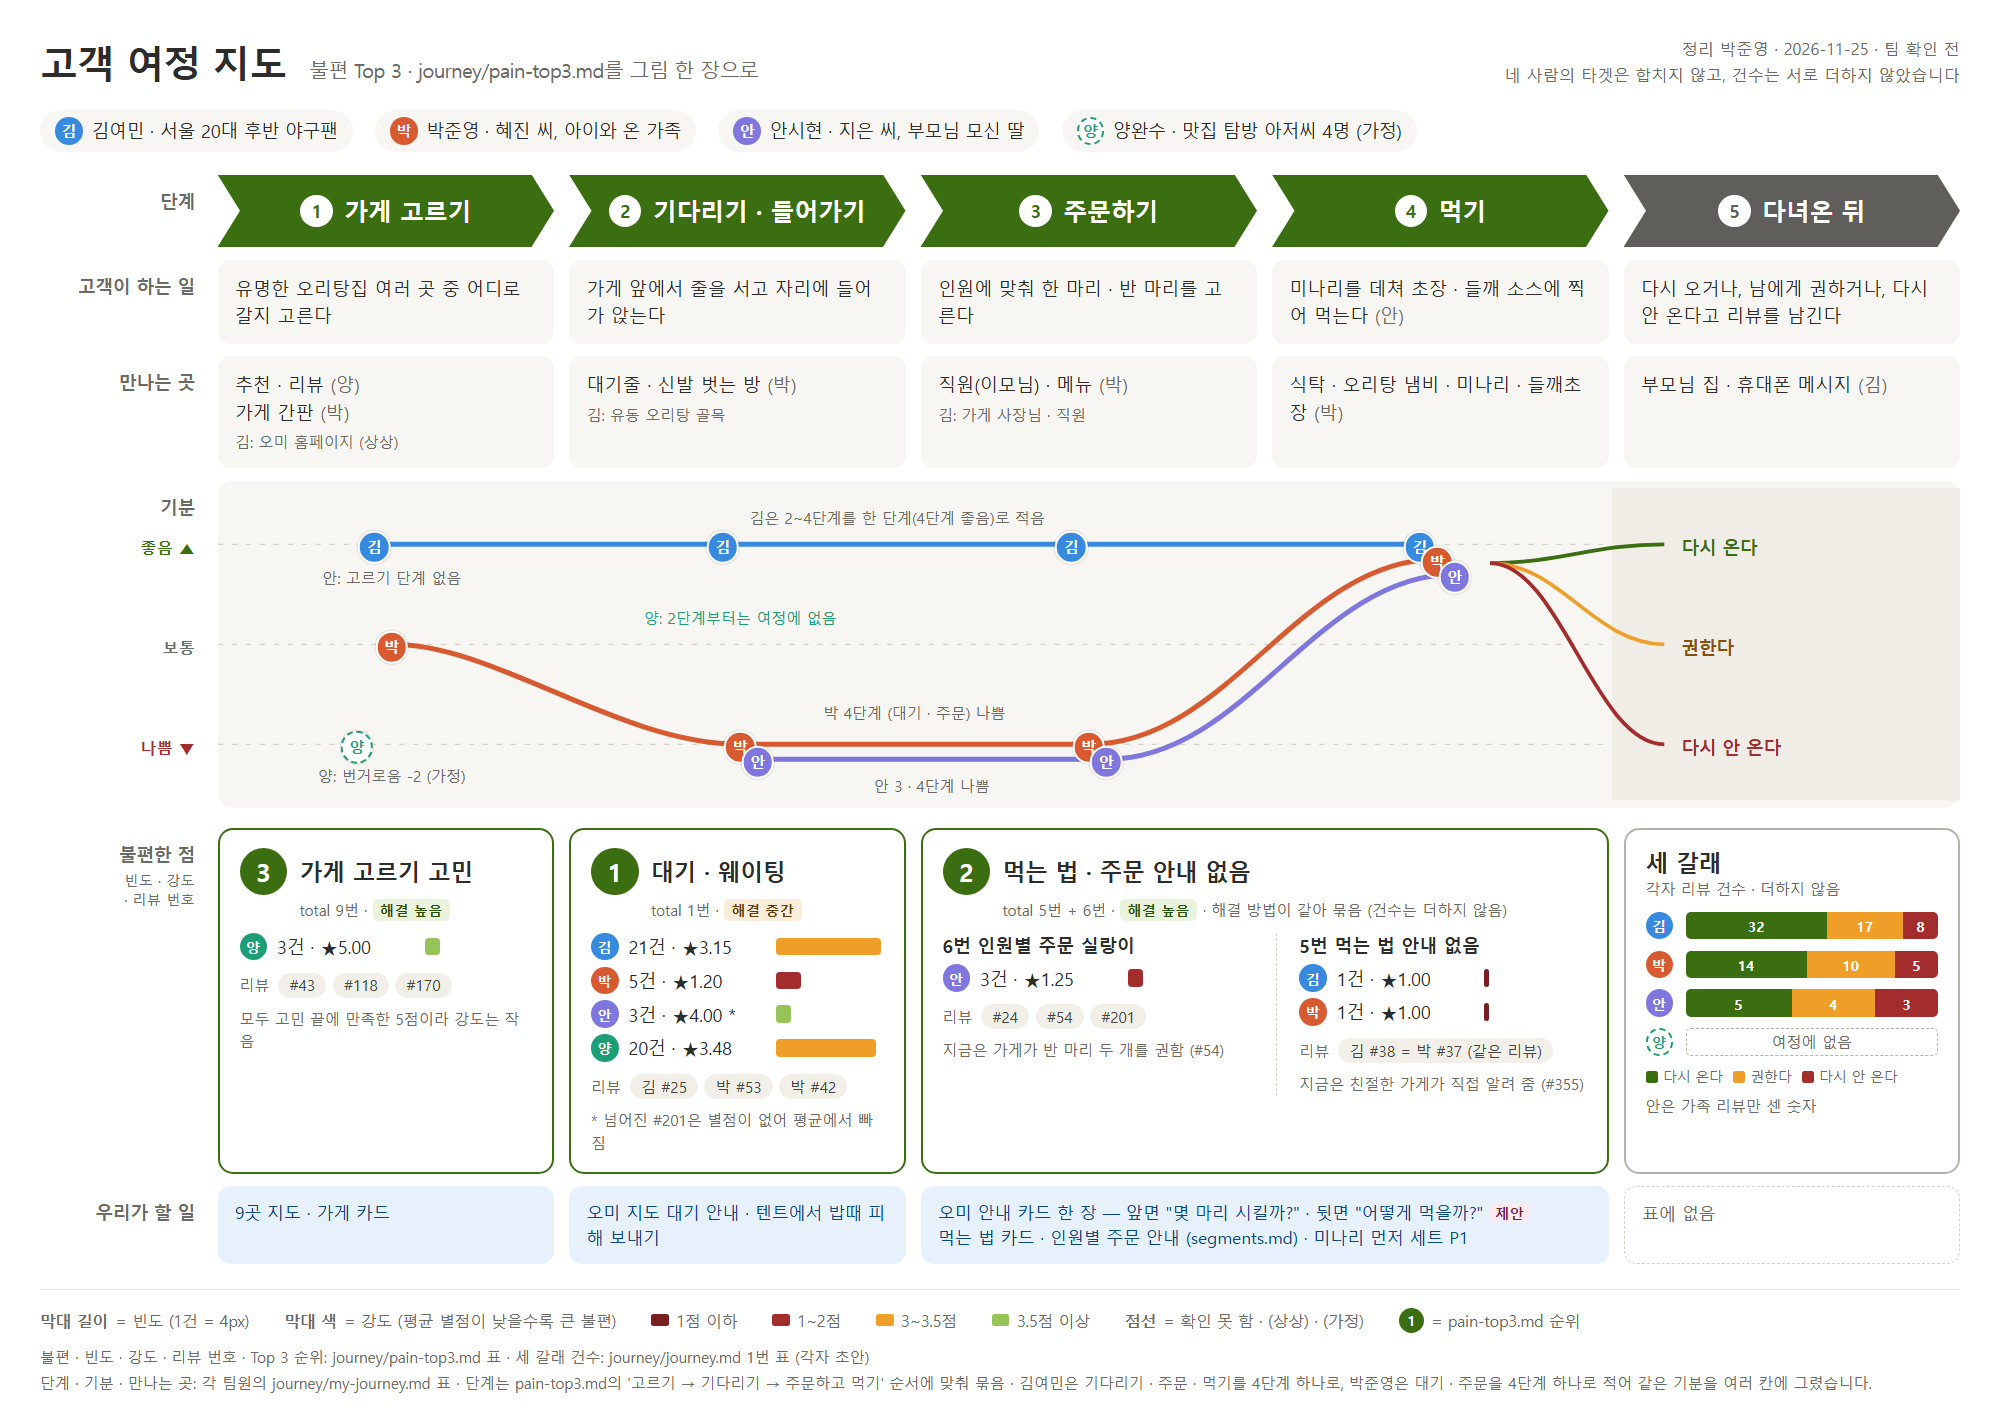
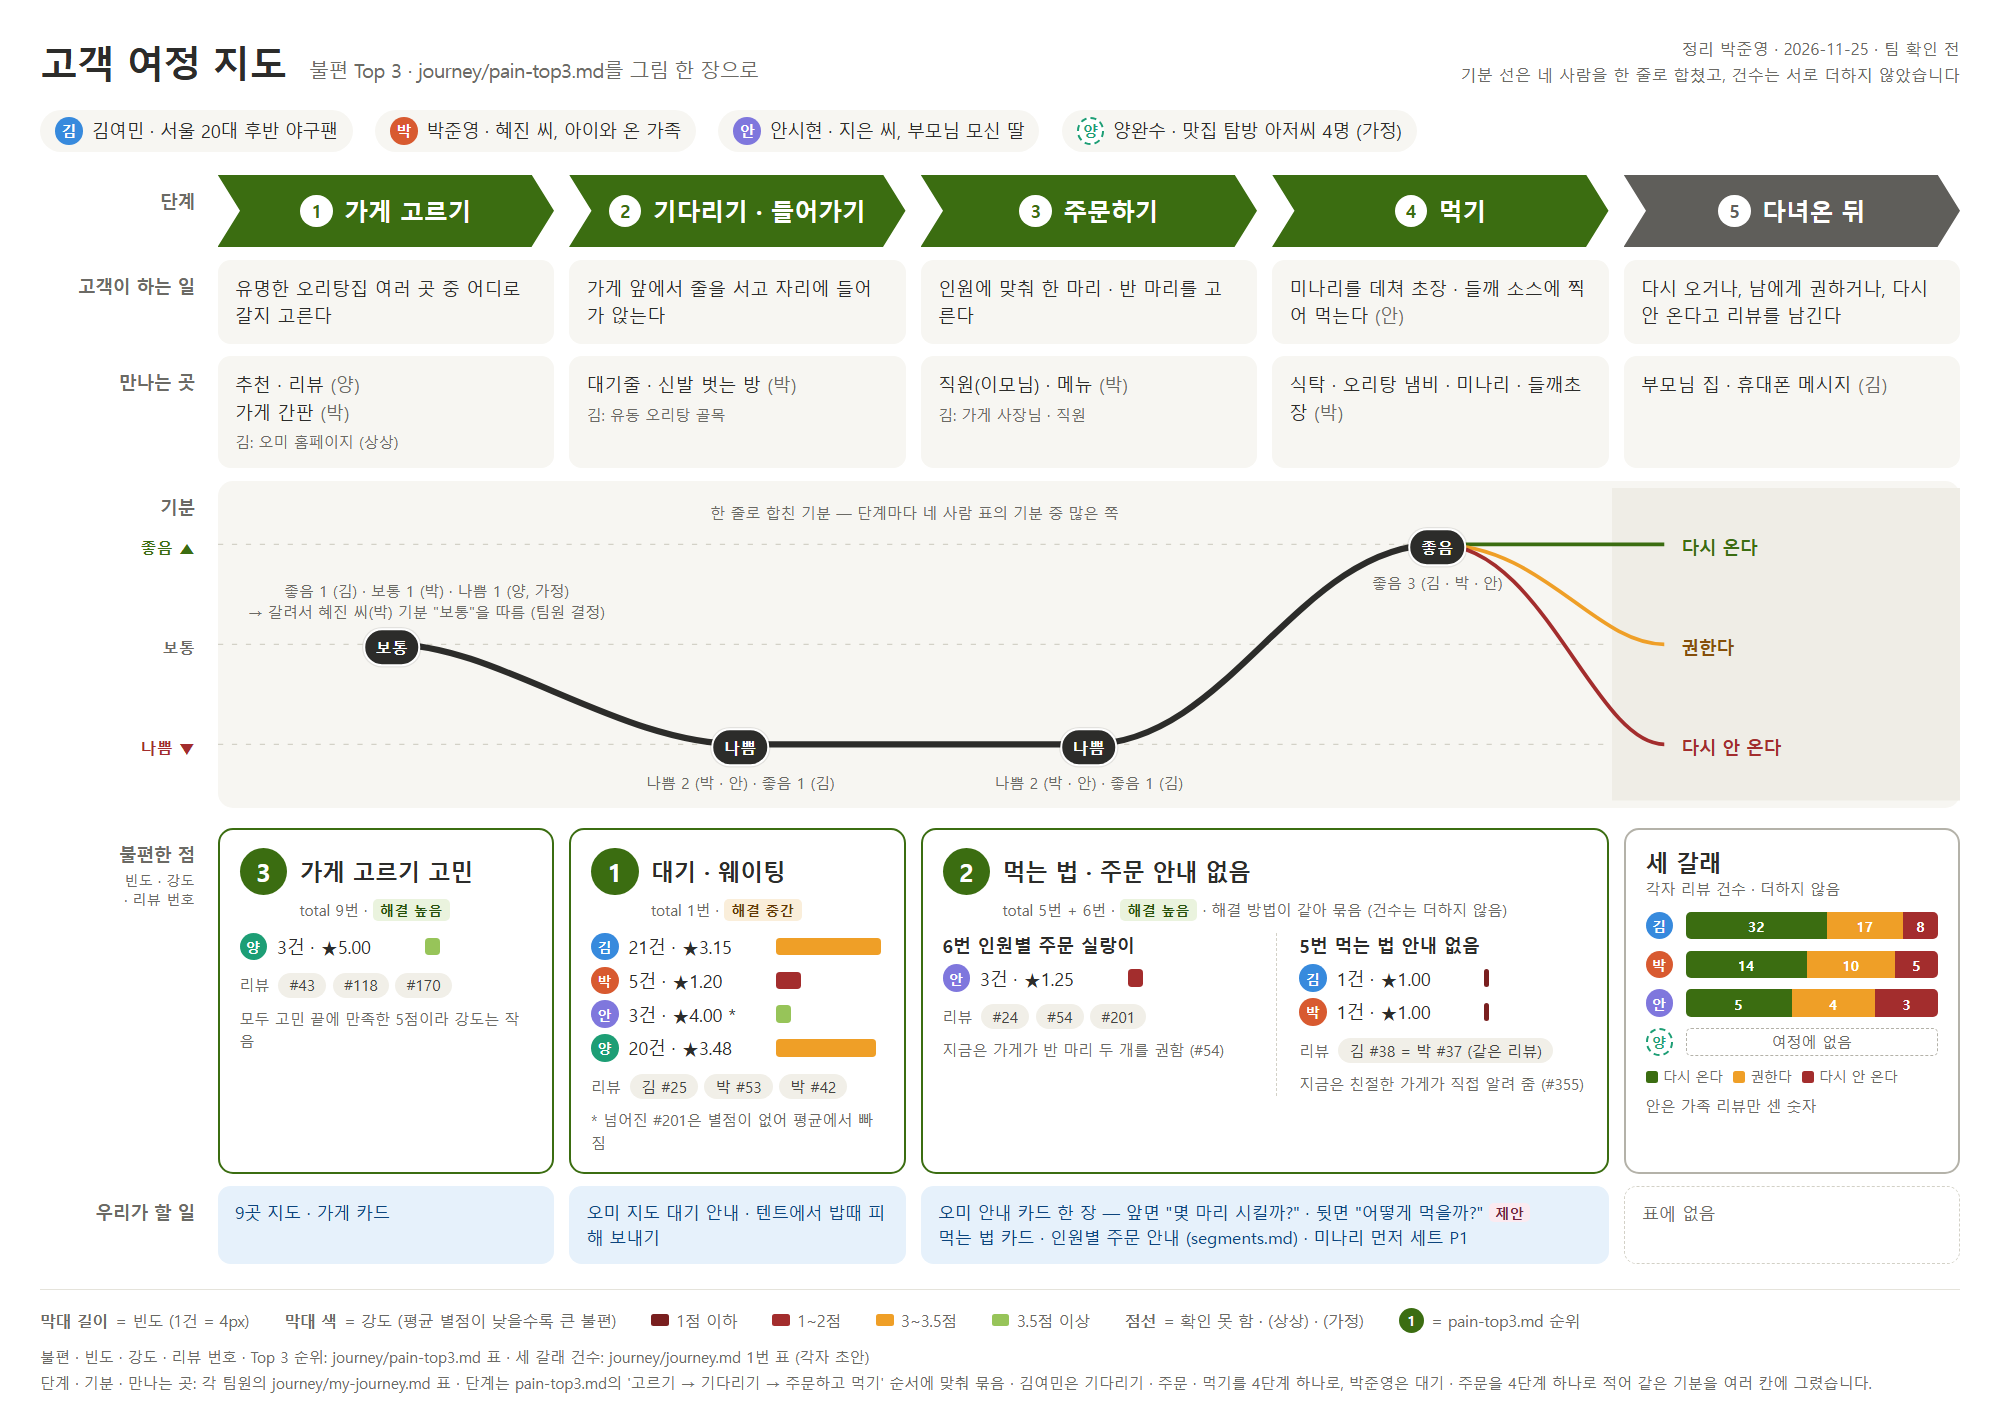
박준영 journey/map: 기분 선 4개를 한 줄로 합침

diff --git a/박준영/journey/map.html b/박준영/journey/map.html
@@ -86,7 +86,7 @@ footer .lg i{display:inline-block;width:14px;height:10px;border-radius:2px}
 
 <header>
   <h1>고객 여정 지도 <small>불편 Top 3 · journey/pain-top3.md를 그림 한 장으로</small></h1>
-  <div class="meta">정리 박준영 · 2026-11-25 · 팀 확인 전<br>네 사람의 타겟은 합치지 않고, 건수는 서로 더하지 않았습니다</div>
+  <div class="meta">정리 박준영 · 2026-11-25 · 팀 확인 전<br>기분 선은 네 사람을 한 줄로 합쳤고, 건수는 서로 더하지 않았습니다</div>
 </header>
 
 <div class="who">
@@ -130,16 +130,13 @@ footer .lg i{display:inline-block;width:14px;height:10px;border-radius:2px}
       <line x1="0" y1="125" x2="1000" y2="125" stroke="#D3D1C7" stroke-dasharray="3 5"/>
       <line x1="0" y1="205" x2="1000" y2="205" stroke="#D3D1C7" stroke-dasharray="3 5"/>
       <rect x="800" y="0" width="200" height="250" fill="#EFEDE6"/>
-      <!-- 김: 1 좋음(2단계) · 2,3,4 좋음(4단계) -->
-      <path d="M90,45 L290,45 L490,45 L690,45" fill="none" stroke="#378ADD" stroke-width="4" vector-effect="non-scaling-stroke"/>
-      <!-- 박: 1 보통 · 2 나쁨 · 3 나쁨 · 4 좋음 -->
-      <path d="M100,125 C160,125 230,205 300,205 L500,205 C580,205 620,57 700,57" fill="none" stroke="#D85A30" stroke-width="4" vector-effect="non-scaling-stroke"/>
-      <!-- 안: 2 나쁨 · 3 나쁨 · 4 좋음 -->
-      <path d="M310,217 L510,217 C590,217 630,69 710,69" fill="none" stroke="#7F77DD" stroke-width="4" vector-effect="non-scaling-stroke"/>
+      <!-- 하나로 합친 기분 선: 단계마다 네 사람 표의 기분 중 많은 쪽(같으면 가운데 값) -->
+      <path d="M100,125 C160,125 230,205 300,205" fill="none" stroke="#2C2C2A" stroke-width="5" vector-effect="non-scaling-stroke"/>
+      <path d="M300,205 L500,205 C580,205 620,45 700,45" fill="none" stroke="#2C2C2A" stroke-width="5" vector-effect="non-scaling-stroke"/>
       <!-- 세 갈래 화살표 -->
-      <path d="M730,60 C770,60 790,45 830,45" fill="none" stroke="#3B6D11" stroke-width="3" vector-effect="non-scaling-stroke"/>
-      <path d="M730,60 C770,60 790,125 830,125" fill="none" stroke="#EF9F27" stroke-width="3" vector-effect="non-scaling-stroke"/>
-      <path d="M730,60 C770,60 790,205 830,205" fill="none" stroke="#A32D2D" stroke-width="3" vector-effect="non-scaling-stroke"/>
+      <path d="M700,45 C760,45 790,45 830,45" fill="none" stroke="#3B6D11" stroke-width="3" vector-effect="non-scaling-stroke"/>
+      <path d="M700,45 C760,45 790,125 830,125" fill="none" stroke="#EF9F27" stroke-width="3" vector-effect="non-scaling-stroke"/>
+      <path d="M700,45 C760,45 790,205 830,205" fill="none" stroke="#A32D2D" stroke-width="3" vector-effect="non-scaling-stroke"/>
     </svg>
     <!-- HTML overlay markers (keeps circles round) -->
   </div>
@@ -149,6 +146,8 @@ footer .lg i{display:inline-block;width:14px;height:10px;border-radius:2px}
 <style>
 .mk{position:absolute;width:26px;height:26px;border-radius:50%;color:#fff;font-size:12px;font-weight:bold;display:flex;align-items:center;justify-content:center;border:2px solid #fff;box-shadow:0 0 0 1px rgba(0,0,0,.08);transform:translate(-50%,-50%)}
 .mk.d{background:#fff!important;border:2px dashed var(--yang);color:var(--yang)}
+.mk.one{width:46px;height:30px;border-radius:15px;background:#2C2C2A;font-size:13px}
+.mk.one.d1{background:#fff;color:#2C2C2A;border:2px dashed #2C2C2A}
 .tag{position:absolute;font-size:12px;color:var(--mute);white-space:nowrap;transform:translate(-50%,0)}
 .br{position:absolute;font-size:14px;font-weight:bold;transform:translate(0,-50%)}
 .mwrap{position:relative}
@@ -158,27 +157,16 @@ footer .lg i{display:inline-block;width:14px;height:10px;border-radius:2px}
   <div class="mwrap" style="height:250px;margin-top:6px"><span class="br" style="right:6px;top:45px;color:#3B6D11;font-size:13px">좋음 ▲</span><span class="br" style="right:6px;top:125px;color:#6B6A65;font-size:13px">보통</span><span class="br" style="right:6px;top:205px;color:#A32D2D;font-size:13px">나쁨 ▼</span></div>
   <div class="mwrap" style="grid-column:2 / span 5;height:250px;margin-top:6px">
     <!-- x = % of mood width; columns centers 10,30,50,70,90 ; y px -->
-    <span class="mk" style="left:9%;top:45px;background:var(--kim)">김</span>
-    <span class="mk" style="left:29%;top:45px;background:var(--kim)">김</span>
-    <span class="mk" style="left:49%;top:45px;background:var(--kim)">김</span>
-    <span class="mk" style="left:69%;top:45px;background:var(--kim)">김</span>
-    <span class="tag" style="left:39%;top:14px">김은 2~4단계를 한 단계(4단계 좋음)로 적음</span>
-
-    <span class="mk" style="left:10%;top:125px;background:var(--park)">박</span>
-    <span class="mk" style="left:30%;top:205px;background:var(--park)">박</span>
-    <span class="mk" style="left:50%;top:205px;background:var(--park)">박</span>
-    <span class="mk" style="left:70%;top:57px;background:var(--park)">박</span>
-    <span class="tag" style="left:40%;top:170px">박 4단계 (대기 · 주문) 나쁨</span>
-
-    <span class="mk" style="left:31%;top:217px;background:var(--ahn)">안</span>
-    <span class="mk" style="left:51%;top:217px;background:var(--ahn)">안</span>
-    <span class="mk" style="left:71%;top:69px;background:var(--ahn)">안</span>
-    <span class="tag" style="left:41%;top:228px">안 3 · 4단계 나쁨</span>
-
-    <span class="mk d" style="left:8%;top:205px">양</span>
-    <span class="tag" style="left:10%;top:220px">양: 번거로움 -2 (가정)</span>
-    <span class="tag" style="left:10%;top:62px">안: 고르기 단계 없음</span>
-    <span class="tag" style="left:30%;top:94px;color:var(--yang)">양: 2단계부터는 여정에 없음</span>
+    <span class="mk one" style="left:10%;top:125px">보통</span>
+    <span class="tag" style="left:12%;top:72px">좋음 1 (김) · 보통 1 (박) · 나쁨 1 (양, 가정)</span>
+    <span class="tag" style="left:12%;top:89px">→ 갈려서 혜진 씨(박) 기분 &quot;보통&quot;을 따름 (팀원 결정)</span>
+    <span class="mk one" style="left:30%;top:205px">나쁨</span>
+    <span class="tag" style="left:30%;top:226px">나쁨 2 (박 · 안) · 좋음 1 (김)</span>
+    <span class="mk one" style="left:50%;top:205px">나쁨</span>
+    <span class="tag" style="left:50%;top:226px">나쁨 2 (박 · 안) · 좋음 1 (김)</span>
+    <span class="mk one" style="left:70%;top:45px">좋음</span>
+    <span class="tag" style="left:70%;top:66px">좋음 3 (김 · 박 · 안)</span>
+    <span class="tag" style="left:40%;top:10px">한 줄로 합친 기분 — 단계마다 네 사람 표의 기분 중 많은 쪽</span>
 
     <span class="br" style="left:84%;top:45px;color:#3B6D11">다시 온다</span>
     <span class="br" style="left:84%;top:125px;color:#854F0B">권한다</span>
